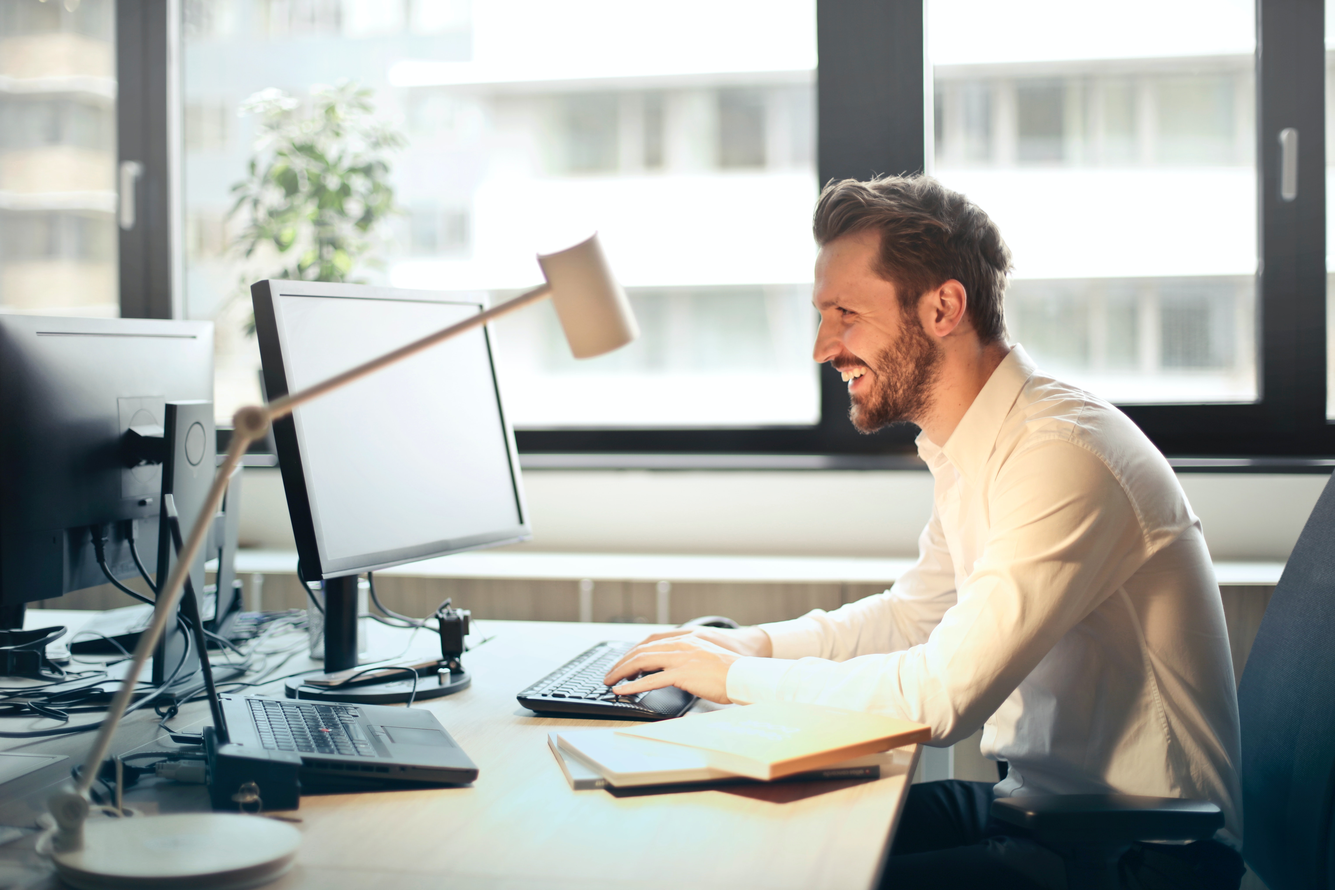
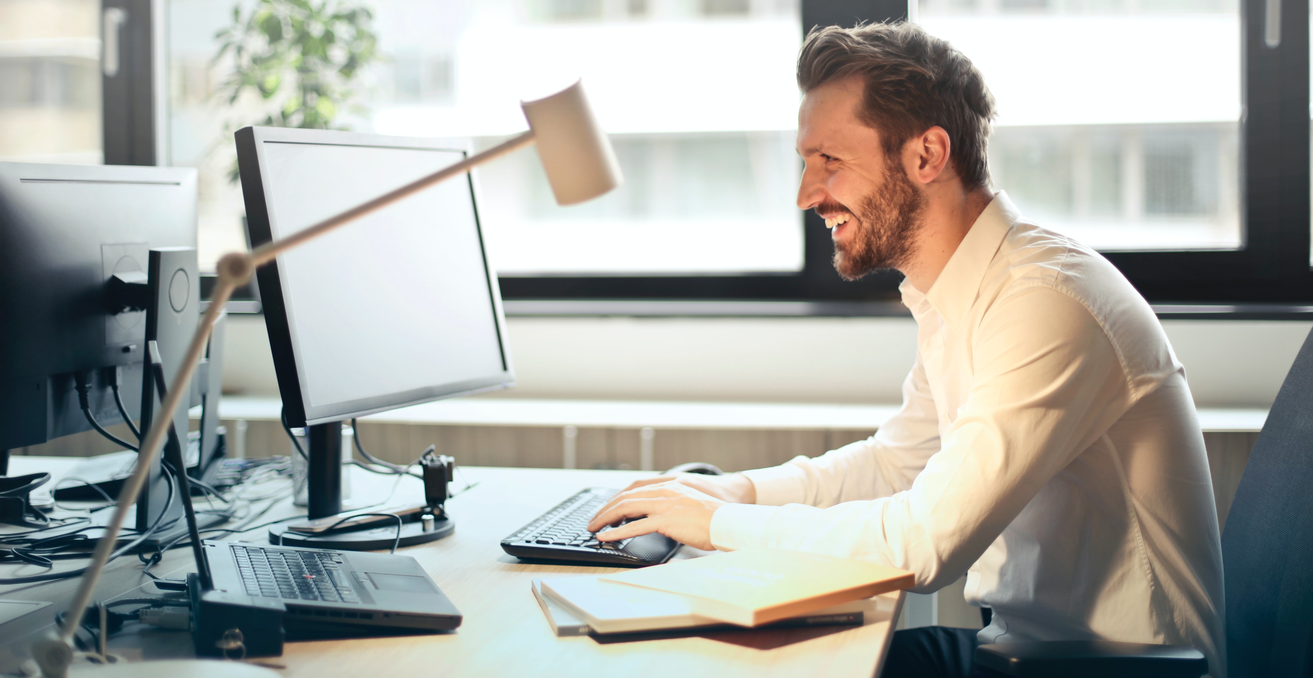
Updated look of landing page

diff --git a/app/(app)/(home)/page.tsx b/app/(app)/(home)/page.tsx
@@ -1,4 +1,6 @@
+import { BsArrowRight } from "react-icons/bs";
 import typing from "../../../public/typing.jpg";
+import lightbulb from "../../../public/lightbulb.svg";
 import Image from "next/image";
 
 const HomePage = () => {
@@ -6,29 +8,47 @@ const HomePage = () => {
     <main>
       {/* Hero section */}
       <section className="grid grid-cols-3 px-44 min-h-[calc(100vh-80px)]">
-        <div className="col-span-2 pr-20 py-10">
-          <h1 className="stretched-heading">We create</h1>
-          <h1 className="stretched-heading text-right w-full mb-4">Content</h1>
-          <Image
-            src={typing}
-            alt="Man smiling and typing on computer"
-            priority
-          />
+        <div className="col-span-2 pr-20 py-12">
+          <h1 className="stretched-heading">Elevate Your</h1>
+          <h1 className="stretched-heading text-right w-full mb-12">
+            Online Presence
+          </h1>
+
+          <div className="relative">
+            <Image
+              src={typing}
+              alt="Man smiling and typing on computer"
+              priority
+            />
+            <div className="absolute h-[120px] w-[120px] top-[-60px] left-[-60px] bg-stone-200 rounded-full" />
+            <div className="absolute h-[120px] w-[120px] top-[-60px] left-[-60px] bg-lime-700/30 rounded-full flex items-center justify-center">
+              <Image
+                src={lightbulb}
+                alt="Lightbulb logo"
+                className="h-[70px] w-[70px] pt-1"
+              />
+            </div>
+          </div>
         </div>
-        <div className="bg-stone-200 border-x border-black h-full pt-24 px-10">
+        <div className="bg-stone-200 border-x border-black h-full pt-32 px-10">
           <h2 className="uppercase font-semibold">
             With
             <br />
-            purpose, strategy, & flawless creativity
+            Expert Content & Unmatched Creativity
           </h2>
           <p className="my-4">
-            We are all about organic business growth, highlighting your
-            company&apos;s strengths through storytelling that drives traffic,
-            boosts engagement, and generates leads.
+            We specialize in crafting content that speaks to your brand&apos;s
+            unique identity. Our expertise is your key to increased traffic and
+            enhanced engagement
           </p>
-          <button className="btn">Discover Our Services</button>
+          <button className="btn gap-2">
+            Discover Our Services
+            <BsArrowRight size={20} />
+          </button>
         </div>
       </section>
+      <section className="py-4 bg-stone-200 border-y border-black"></section>
+      <section className="py-4"></section>
     </main>
   );
 };

diff --git a/app/(app)/navbar.tsx b/app/(app)/navbar.tsx
@@ -4,16 +4,23 @@ import Image from "next/image";
 
 const Navbar = () => {
   return (
-    <div className="flex flex-row py-4 px-44 h-[80px] bg-stone-200 border-b-black border-b">
+    <nav className="flex flex-row py-4 px-44 h-[80px] bg-stone-200 border-b-black border-b">
       <Link href="/">
         <Image src={logo} alt="KBH Creative logo" className="h-full w-min" />
       </Link>
       <div className="grow" />
-      <nav className="h-full flex items-center gap-6">
-        <Link href="/services">Services</Link>
-        <Link href="/contact">Contact</Link>
-      </nav>
-    </div>
+      <ul id="main-navbar" className="h-full flex items-center gap-8">
+        <li>
+          <Link href="/services">Services</Link>
+        </li>
+        <li>
+          <Link href="/blog">Blog</Link>
+        </li>
+        <li>
+          <Link href="/contact">Contact</Link>
+        </li>
+      </ul>
+    </nav>
   );
 };
 

diff --git a/styles/globals.css b/styles/globals.css
@@ -19,10 +19,18 @@ h4 {
 }
 
 .stretched-heading {
-  @apply text-6xl uppercase font-bold tracking-wide;
+  @apply text-6xl uppercase font-semibold tracking-wide;
   display: inline-block;
 }
 
 .btn {
-  @apply bg-lime-700/30 p-5 rounded-full hover:bg-lime-700/60;
+  @apply flex font-medium flex-row items-center bg-lime-700/30 p-5 rounded-full hover:bg-lime-700/60;
+}
+
+#main-navbar li {
+  @apply text-sm font-medium tracking-wide;
+}
+
+p {
+  @apply text-sm font-medium tracking-wide;
 }

diff --git a/app/(app)/contact/page.tsx b/app/(app)/contact/page.tsx
@@ -5,7 +5,7 @@ const ContactPage = () => {
   return (
     <main className="py-28 px-60">
       <section className="grid grid-cols-3 border border-black bg-stone-200">
-        <div className="bg-lime-700/50 m-2 p-4">
+        <div className="bg-lime-700/30 m-2 p-4">
           <h4>Get in touch!</h4>
           <p className="mb-4">
             Contact us to see how KBH Creative can help grow your business.
